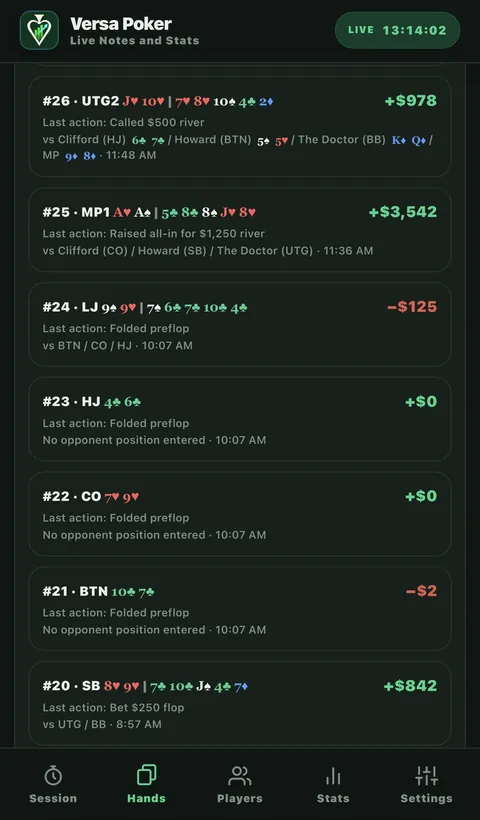
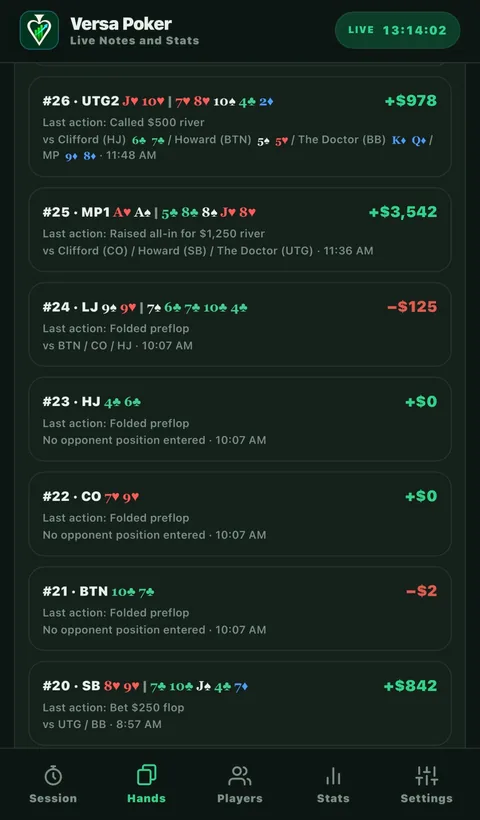
Expand Versa Poker feature marketing and screenshots

diff --git a/apps/versapoker/index.html b/apps/versapoker/index.html
@@ -4,11 +4,11 @@
   <meta charset="utf-8">
   <meta name="viewport" content="width=device-width, initial-scale=1">
   <title>Versa Poker Live Notes and Stats | Fast Live Hand Logging</title>
-  <meta name="description" content="Capture live poker hands at table pace. Review street notes, player histories, hand histories, and session analytics with Versa Poker Live Notes and Stats for iPhone.">
+  <meta name="description" content="Log live poker hands quickly, replay street-by-street histories, review hands against familiar players, and analyze results by position and premium starting hand.">
   <link rel="canonical" href="https://versagaldigital.com/apps/versapoker/">
   <meta property="og:type" content="website">
   <meta property="og:title" content="Versa Poker Live Notes and Stats | VersaGal Digital">
-  <meta property="og:description" content="Fast live hand entry, useful street notes, player histories, and session analytics for iPhone.">
+  <meta property="og:description" content="Fast live hand entry, replayable street-by-street history, familiar-player hand review, and poker stats by position and starting hand.">
   <meta property="og:url" content="https://versagaldigital.com/apps/versapoker/">
   <meta property="og:image" content="https://versagaldigital.com/assets/versa-poker-live-notes-app-icon.png">
   <meta property="og:image:alt" content="Versa Poker Live Notes and Stats app icon">
@@ -26,33 +26,61 @@
       <div class="poker-hero-copy">
         <a class="back-link" href="../index.html">← All apps</a>
         <div class="poker-lockup"><img src="../../assets/versa-poker-live-notes-app-icon.png" width="72" height="72" alt=""><span class="badge poker-badge">In development · iPhone</span></div>
-        <p class="eyebrow">Live poker. Clear notes.</p>
-        <h1>Every hand.<br>Worth remembering.</h1>
-        <p class="lead">Rapid hand notes built for the pace of a live table. Capture the biggest bets and key tags while you play, then add street notes for the details you want to remember.</p>
-        <div class="button-row"><a class="button poker-button" href="#how-it-works">See how it works</a><a class="button secondary poker-secondary" href="support/index.html">Support</a></div>
+        <p class="eyebrow">Live poker. Fast notes. Better review.</p>
+        <h1>Keep pace at the table.<br>Learn from every hand.</h1>
+        <p class="lead">A rapid betting keypad built for live play, detailed hand histories for later, and stats that show how your results break down by player, position, and starting hand.</p>
+        <div class="button-row"><a class="button poker-button" href="#hand-history">Explore hand history</a><a class="button secondary poker-secondary" href="#stats">Explore the stats</a></div>
         <p class="poker-status"><span aria-hidden="true"></span>A public App Store download is not available yet. Release details will appear here.</p>
       </div>
-      <figure class="poker-hero-shot"><a href="../../assets/poker-screenshots/rapid-entry.webp" aria-label="Open the Versa Poker Rapid Betting Numpad screenshot"><img src="../../assets/poker-screenshots/rapid-entry.webp" width="480" height="820" alt="Versa Poker Live Notes and Stats Rapid Betting Numpad showing board cards, street bet, action tags, amount keypad, all-opponents-fold control, and notes button." fetchpriority="high" decoding="async"></a><figcaption>Rapid Betting Numpad · iPhone screen</figcaption></figure>
+      <figure class="poker-hero-shot"><a href="../../assets/poker-screenshots/rapid-betting-numpad.webp" aria-label="Open the Rapid Betting Numpad screenshot"><img src="../../assets/poker-screenshots/rapid-betting-numpad.webp" width="480" height="820" alt="Rapid Betting Numpad displaying the current street, largest bet, action tags, number keypad, all-opponents-fold control, and street-notes button." fetchpriority="high" decoding="async"></a><figcaption>Rapid Betting Numpad · designed for live play</figcaption></figure>
     </section>
 
     <section class="container section poker-section" id="how-it-works">
-      <div class="section-heading"><p class="eyebrow">Built for the live table</p><h2>Capture the hand.<br>Keep the context.</h2><p>Use a few quick controls during play, then preserve enough detail to understand what happened when you review the session.</p></div>
+      <div class="section-heading"><p class="eyebrow">Made for the pace of a live game</p><h2>Log the shape of the action.<br>Fill in the story later.</h2><p>The keypad keeps live entry short and deliberate. It records the biggest bet faced on each street, your call/check or bet/raise, who remains, and the tags that explain the action.</p></div>
       <div class="poker-feature-grid">
-        <article class="poker-feature"><span class="poker-feature-number">01</span><h3>Log the key bets quickly</h3><p>Enter the largest bet faced on a street and use tags to note calls, raises, squeezes, bet-folds, dead money, and folds. The numpad captures the important shape of the betting without making you write every action in real time.</p></article>
-        <article class="poker-feature"><span class="poker-feature-number">02</span><h3>Add the detail the tags miss</h3><p>Save notes by street, track who remains in the hand, enter showdown cards, and keep the board and betting context together in hand history.</p></article>
-        <article class="poker-feature"><span class="poker-feature-number">03</span><h3>Review your game later</h3><p>Return to individual hands, follow a player’s recorded history, and explore session breakdowns and analytics after the game.</p></article>
+        <article class="poker-feature"><span class="poker-feature-number">01</span><h3>Tap through the key action</h3><p>Enter an amount, then mark Hero’s action as CALL/CHECK or BET/RAISE. The selected label preserves whether your action was passive or aggressive without a long form or a full typed transcript.</p></article>
+        <article class="poker-feature"><span class="poker-feature-number">02</span><h3>Use tags to capture more</h3><p>Mark details such as 3-bet, 4-bet, squeeze, all-in, re-raise, dead money, and bet-fold. Track who is still in the hand and mark when all opponents fold.</p></article>
+        <article class="poker-feature"><span class="poker-feature-number">03</span><h3>Add the context you want</h3><p>Save a note for each street, including dictation, then enter showdown cards and the result. The quick tags capture the outline; notes preserve the reads and details that matter to you.</p></article>
+      </div>
+      <p class="poker-method-note"><strong>Built for live logging:</strong> capture the biggest bets and defining actions while the hand is moving, then use the saved street-by-street history to review or add context after play.</p>
+    </section>
+
+    <section class="poker-band" id="hand-history">
+      <div class="container section poker-section">
+        <div class="section-heading"><p class="eyebrow">Hand history</p><h2>Replay the hand, street by street.</h2><p>Move beyond a single win or loss. Revisit the board, Hero’s actions, the opponents still in, dead money, pot progression, showdown, and notes in one saved record.</p></div>
+        <div class="poker-gallery" role="region" aria-label="Hand history and showdown screenshots" tabindex="0">
+          <figure><a href="../../assets/poker-screenshots/hand-history.webp" aria-label="Open the saved hand history list screenshot"><img src="../../assets/poker-screenshots/hand-history.webp" width="480" height="820" alt="Saved hand history list with Hero's cards, board, last action, opponents, time, and net result." loading="lazy" decoding="async"></a><figcaption>Find the hand you want to revisit.</figcaption></figure>
+          <figure><a href="../../assets/poker-screenshots/hand-history-detail.webp" aria-label="Open the full hand history detail screenshot"><img src="../../assets/poker-screenshots/hand-history-detail.webp" width="480" height="820" alt="Hand detail with preflop, flop, turn, and river actions, players remaining, dead money, pot sizes, result, board, and street notes." loading="lazy" decoding="async"></a><figcaption>Follow the action and pot by street.</figcaption></figure>
+          <figure><a href="../../assets/poker-screenshots/showdown.webp" aria-label="Open the showdown screenshot"><img src="../../assets/poker-screenshots/showdown.webp" width="480" height="820" alt="Showdown view with named players, their assigned hole cards, the final pot, and win or loss result." loading="lazy" decoding="async"></a><figcaption>Keep revealed cards with the result.</figcaption></figure>
+        </div>
       </div>
     </section>
 
-    <section class="poker-band">
+    <section class="container section poker-section poker-player-section">
+      <div class="section-heading"><p class="eyebrow">Player history</p><h2>See how it’s going against familiar players.</h2><p>Choose or reuse a player’s name at the table, and the app groups the hands you recorded with that person. Review your results across sessions, then open an individual hand to see its cards, streets, and outcome.</p></div>
+      <div class="poker-gallery poker-gallery--players" role="region" aria-label="Player history screenshots" tabindex="0">
+        <figure><a href="../../assets/poker-screenshots/player-history.webp" aria-label="Open player history list screenshot"><img src="../../assets/poker-screenshots/player-history.webp" width="480" height="820" alt="History for a named poker player, showing recorded hands across sessions and their individual net results." loading="lazy" decoding="async"></a><figcaption>Your recorded hands against a familiar player.</figcaption></figure>
+        <figure><a href="../../assets/poker-screenshots/player-history-hand-detail.webp" aria-label="Open hand details from player history screenshot"><img src="../../assets/poker-screenshots/player-history-hand-detail.webp" width="480" height="820" alt="Street-by-street hand detail opened from a player's history, including Hero's actions, opponent cards, pot progression, and notes." loading="lazy" decoding="async"></a><figcaption>Open a hand and see what happened.</figcaption></figure>
+      </div>
+    </section>
+
+    <section class="poker-band" id="stats">
       <div class="container section poker-section">
-        <div class="section-heading"><p class="eyebrow">A look inside</p><h2>From quick entry<br>to thoughtful review.</h2><p>See how a live hand moves from the table into your saved history.</p></div>
-        <div class="poker-gallery" role="region" aria-label="Versa Poker Live Notes and Stats screenshots" tabindex="0">
-          <figure><a href="../../assets/poker-screenshots/hand-result.webp" aria-label="Open larger screenshot of hand result and showdown"><img src="../../assets/poker-screenshots/hand-result.webp" width="480" height="820" alt="Hand result screen with saved board, action, pot, showdown cards, and win or loss controls." loading="lazy" decoding="async"></a><figcaption>Capture the outcome and showdown.</figcaption></figure>
-          <figure><a href="../../assets/poker-screenshots/hand-history.webp" aria-label="Open larger screenshot of saved hand history"><img src="../../assets/poker-screenshots/hand-history.webp" width="480" height="820" alt="Hand history list showing saved hands, positions, cards, and net results." loading="lazy" decoding="async"></a><figcaption>Find a hand worth reviewing.</figcaption></figure>
-          <figure><a href="../../assets/poker-screenshots/analytics.webp" aria-label="Open larger screenshot of session analytics"><img src="../../assets/poker-screenshots/analytics.webp" width="480" height="820" alt="Poker analytics screen showing overall game analysis, hand counts, net results, and position performance." loading="lazy" decoding="async"></a><figcaption>See the session beyond the result.</figcaption></figure>
-          <figure><a href="../../assets/poker-screenshots/player-history.webp" aria-label="Open larger screenshot of player history"><img src="../../assets/poker-screenshots/player-history.webp" width="480" height="820" alt="Player history screen with a selected opponent, saved hands, and hand-by-hand net results." loading="lazy" decoding="async"></a><figcaption>Follow hands recorded with a player.</figcaption></figure>
+        <div class="section-heading"><p class="eyebrow">Stats and game analysis</p><h2>Find the patterns behind your results.</h2><p>Explore overall and per-session results, position-by-position performance, core poker stats, and the starting hands that are helping or hurting your bottom line.</p></div>
+        <div class="poker-stat-highlights">
+          <article><h3>Premium hands, tracked</h3><p>See how often you record premium groups such as AA–TT, AK, AQ, AJ, AT, and KQ—along with wins and net results for each hand. Compare them with broader starting-hand classes such as pocket pairs and suited connectors.</p></article>
+          <article><h3>Results by position</h3><p>Compare hands played, VPIP, PFR, win percentage, and net by seat to see where your results are strongest and where to review more hands.</p></article>
+          <article><h3>Core stats and session trends</h3><p>Review VPIP, PFR, 3-bet, RFI, continuation bets, aggression factor, WTSD, and WWSF, alongside net in dollars and big blinds, hourly rate, and result mix.</p></article>
+          <article><h3>Possible leaks to review</h3><p>See patterns such as a wide VPIP–PFR gap, then open the hands behind the numbers and decide what the sample says about your play.</p></article>
         </div>
+        <div class="poker-gallery poker-gallery--stats" role="region" aria-label="Poker analytics screenshots" tabindex="0">
+          <figure><a href="../../assets/poker-screenshots/game-analysis.webp" aria-label="Open overall game analysis screenshot"><img src="../../assets/poker-screenshots/game-analysis.webp" width="480" height="820" alt="Game analysis dashboard with overall hands, net results, big blinds, out-of-position rate, hourly rate, leak finder, and result mix." loading="lazy" decoding="async"></a><figcaption>See your overall game and session results.</figcaption></figure>
+          <figure><a href="../../assets/poker-screenshots/core-poker-stats.webp" aria-label="Open core poker stats screenshot"><img src="../../assets/poker-screenshots/core-poker-stats.webp" width="480" height="820" alt="Core poker stats including VPIP, PFR, 3-bet, RFI, flop continuation bet, aggression factor, WTSD, and WWSF." loading="lazy" decoding="async"></a><figcaption>Understand the core stats you record.</figcaption></figure>
+          <figure><a href="../../assets/poker-screenshots/position-results.webp" aria-label="Open results by position screenshot"><img src="../../assets/poker-screenshots/position-results.webp" width="480" height="820" alt="Position results showing net performance bars and hands, VPIP, PFR, win percentage, and net by position." loading="lazy" decoding="async"></a><figcaption>Compare results seat by seat.</figcaption></figure>
+          <figure><a href="../../assets/poker-screenshots/premium-volume.webp" aria-label="Open premium starting hand stats screenshot"><img src="../../assets/poker-screenshots/premium-volume.webp" width="480" height="820" alt="Premium starting hand volume table showing how often each premium hand was recorded, wins, and net results." loading="lazy" decoding="async"></a><figcaption>See the volume and results of premium hands.</figcaption></figure>
+          <figure><a href="../../assets/poker-screenshots/result-mix.webp" aria-label="Open win fold loss result mix screenshot"><img src="../../assets/poker-screenshots/result-mix.webp" width="480" height="820" alt="Win, fold, and loss result mix with session-level summaries." loading="lazy" decoding="async"></a><figcaption>Put wins, folds, and losses in context.</figcaption></figure>
+        </div>
+        <p class="poker-method-note">Stats are derived from the hands you save. Treat them as a record of your logged play, and use a larger sample of hands when comparing trends.</p>
       </div>
     </section>
 

diff --git a/index.html b/index.html
@@ -31,7 +31,7 @@
         <article class="card app-home-card pickle-card"><div class="app-card-top"><img class="keeper-icon" src="assets/versapickle-tools-icon.png" width="76" height="76" alt="VersaPickle Ratings logo"><span class="badge green">Coming soon</span></div><h3>VersaPickle Ratings</h3><p>Know your roster, follow your DUPR progression, and search your matches with a partner or against an opponent. Explore your available data, or try fictional players and matches in the app’s sign-in-free demo.</p><p class="app-card-meta">iPhone · Rosters · Progress · Matches · Interactive demo</p><a class="text-link" href="apps/versapickle/index.html">See VersaPickle screenshots &amp; features</a></article>
         <article class="card app-home-card squabble-card"><div class="app-card-top"><img class="keeper-icon" src="assets/versa-squabble-duo-icon.png" width="76" height="76" alt="Versa Squabble Duo logo"><span class="badge">Coming soon</span></div><h3>Versa Squabble Duo</h3><p>Flip rotated tiles, build words, and steal the lead. Play face-to-face on one device, challenge the computer at three levels, or invite a friend online.</p><p class="app-card-meta">iPhone &amp; iPad · 3+ to 7+ letter games · Offline &amp; online play · Planned US$4.99 one-time purchase</p><a class="text-link" href="apps/versasquabbleduo/index.html">Explore Versa Squabble Duo</a></article>
         <article class="card app-home-card open-play-card"><div class="app-card-top"><img class="keeper-icon" src="assets/versa-open-play-icon.png" width="76" height="76" alt="Versa Open Play logo" loading="lazy"><span class="badge open-play-badge">Open for testing</span></div><h3>Versa Open Play</h3><p>Play your games. Keep the story. Record pickleball scores even if you’re the only player using the app. Friends can join later to claim their games and verify scores, then explore stats, club leaderboards, and tournaments.</p><p class="app-card-meta">Web app · Open play &amp; tournaments · Staging / tester phase</p><a class="text-link" href="apps/versaopenplay/index.html">Explore Versa Open Play</a></article>
-        <article class="card app-home-card poker-home-card"><div class="app-card-top"><img class="keeper-icon" src="assets/versa-poker-live-notes-app-icon.png" width="76" height="76" alt="Versa Poker Live Notes and Stats app icon" loading="lazy"><span class="badge poker-badge">In development</span></div><h3>Versa Poker Live Notes and Stats</h3><p>Capture live poker hands at table pace, then revisit player and street notes, hand histories, and session stats to understand your game.</p><p class="app-card-meta">iPhone · Rapid hand entry · Local history &amp; analytics</p><a class="text-link" href="apps/versapoker/index.html">Explore Versa Poker Live Notes and Stats</a></article>
+        <article class="card app-home-card poker-home-card"><div class="app-card-top"><img class="keeper-icon" src="assets/versa-poker-live-notes-app-icon.png" width="76" height="76" alt="Versa Poker Live Notes and Stats app icon" loading="lazy"><span class="badge poker-badge">In development</span></div><h3>Versa Poker Live Notes and Stats</h3><p>Log live poker hands quickly, review street-by-street histories against familiar players, and explore stats by position and premium starting hand.</p><p class="app-card-meta">iPhone · Rapid hand entry · Local history &amp; analytics</p><a class="text-link" href="apps/versapoker/index.html">Explore Versa Poker Live Notes and Stats</a></article>
       </div>
     </section>
     <section class="container section home-music"><div class="music-stage"><p class="eyebrow light">The other side of VersaGal Digital</p><h2>Real stories.<br>Original songs.</h2><p>Music about connection, change, and the moments worth remembering—with a few songs for the pickleball court, too.</p><a class="button spotify-button" href="music/index.html">Explore the music</a></div></section>

diff --git a/apps/index.html b/apps/index.html
@@ -3,12 +3,12 @@
 <head>
   <meta charset="utf-8">
   <meta name="viewport" content="width=device-width, initial-scale=1">
-  <meta name="description" content="Explore VersaLink Keeper, VersaPickle Ratings, Versa Squabble Duo, Versa Open Play, and Versa Poker Live Notes and Stats: independent apps for useful finds, pickleball, word games, and live poker.">
+  <meta name="description" content="Explore Versa Poker Live Notes and Stats, VersaLink Keeper, VersaPickle Ratings, Versa Squabble Duo, and Versa Open Play.">
   <title>Apps | VersaGal Digital</title>
   <link rel="canonical" href="https://versagaldigital.com/apps/">
   <meta property="og:type" content="website">
   <meta property="og:title" content="Apps | VersaGal Digital">
-  <meta property="og:description" content="Explore VersaLink Keeper, VersaPickle Ratings, Versa Squabble Duo, Versa Open Play, and Versa Poker Live Notes and Stats: independent apps for useful finds, pickleball, word games, and live poker.">
+  <meta property="og:description" content="Explore independent apps from VersaGal Digital for useful finds, pickleball, word games, live poker, and more.">
   <meta property="og:url" content="https://versagaldigital.com/apps/">
   <meta property="og:image" content="https://versagaldigital.com/assets/versagal-digital-mark.png">
   <meta property="og:image:alt" content="Apps | VersaGal Digital logo">
@@ -31,7 +31,7 @@
       </article>
       <article class="product-card poker-card" id="versa-poker">
         <a class="product-visual poker-visual" href="versapoker/index.html" aria-label="Explore Versa Poker Live Notes and Stats"><img class="keeper-icon" src="../assets/versa-poker-live-notes-app-icon.png" width="1024" height="1024" alt="Versa Poker Live Notes and Stats app icon" loading="lazy"></a>
-        <div><span class="badge poker-badge">In development · iPhone</span><h2 class="product-name">Versa Poker Live Notes and Stats</h2><p class="lead">Every hand. Worth remembering.</p><p>Rapid live hand notes built for the pace of a poker table. Capture key bets and tags, preserve player and street details, then review hand histories and session analytics.</p><ul class="compact-features"><li>Record each street with the Rapid Betting Numpad</li><li>Add notes, player names, and showdown cards</li><li>Review hand history, player history, and session stats</li><li>One free trial session with up to 30 saved hands; US$9.99 one-time full-app unlock</li></ul><a class="button poker-button" href="versapoker/index.html">See features &amp; screenshots</a><div class="product-links"><a href="versapoker/support/index.html">Support</a></div><p class="small-note">In development for iPhone. A public App Store download is not available yet.</p></div>
+        <div><span class="badge poker-badge">In development · iPhone</span><h2 class="product-name">Versa Poker Live Notes and Stats</h2><p class="lead">Every hand. Worth remembering.</p><p>Log the key action while the live hand is moving, then review complete street-by-street histories—including your recorded hands against familiar players—and analyze results by position, premium starting hands, and session.</p><ul class="compact-features"><li>Log the biggest bets faced with quick actions and tags</li><li>Replay street-by-street hand histories and showdown details</li><li>Review hands against familiar players and stats by position and premium hand</li><li>One free trial session with up to 30 saved hands; US$9.99 one-time full-app unlock</li></ul><a class="button poker-button" href="versapoker/index.html">See features &amp; screenshots</a><div class="product-links"><a href="versapoker/support/index.html">Support</a></div><p class="small-note">In development for iPhone. A public App Store download is not available yet.</p></div>
       </article>
     </section>
 </main>

diff --git a/assets/versapoker.css b/assets/versapoker.css
@@ -82,3 +82,15 @@ body.poker-theme .text-link, body.poker-theme .article a { color: var(--poker-gr
   .poker-gallery figure { flex-basis:74vw; }
   .poker-contact-card, .poker-faq-list { padding:22px; }
 }
+
+.poker-method-note { margin:28px 0 0; padding:18px 22px; border-left:4px solid var(--poker-bright); border-radius:0 14px 14px 0; background:rgba(227,246,237,.75); color:#405c4b; }
+.poker-player-section .section-heading { max-width:820px; }
+.poker-stat-highlights { display:grid; grid-template-columns:repeat(4,minmax(0,1fr)); gap:18px; margin:8px 0 34px; }
+.poker-stat-highlights article { padding:24px; border:1px solid rgba(16,36,26,.1); border-radius:20px; background:rgba(255,255,255,.82); }
+.poker-stat-highlights h3 { margin:0 0 10px; color:var(--poker-ink); }
+.poker-stat-highlights p { margin:0; color:#50685a; }
+.poker-gallery--players figure { flex-basis:clamp(250px,30vw,330px); }
+.poker-gallery--stats figure { flex-basis:clamp(220px,25vw,280px); }
+@media (max-width:780px) {
+  .poker-stat-highlights { grid-template-columns:1fr; }
+}

diff --git a/README.md b/README.md
@@ -3,10 +3,12 @@
 Static HTML and CSS for https://versagaldigital.com, hosted on GitHub Pages from
 `cindyisip/VersaGalDigitalWebsite`. No build step or additional hosting is needed.
 
-## November 7, 2026: Versa Poker Live Notes and Stats website pages
+## November 7, 2026: Versa Poker website and product marketing
 
 - Added the Versa Poker Live Notes and Stats marketing page, support page, and links on Home, Apps, and site footers.
 - Added the app icon and current iPhone screenshots. The app is labeled **In development**; the site does not offer a public App Store download link.
+- Expanded the overview to market rapid live-table logging, street-by-street and familiar-player hand histories, position results, premium starting-hand results, core stats, and possible-leak review.
+- Added the supplied hand-history, showdown, player-history, and analytics screenshots in optimized WebP format.
 - The iOS Build 36 upload to App Store Connect succeeded. TestFlight access and public App Store availability are not represented as open.
 - Support and Marketing URLs:
   - Marketing: https://versagaldigital.com/apps/versapoker/
